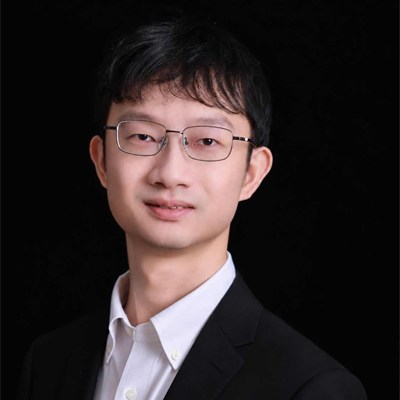
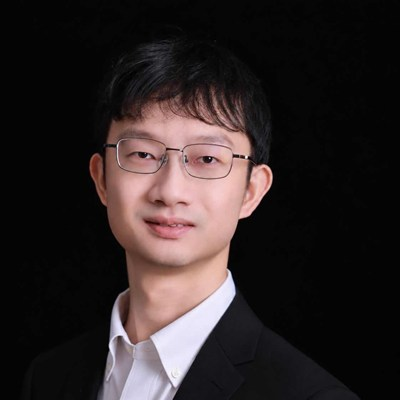
Round the HIT Shenzhen mark and recenter Zhuosheng's portrait

Changed region(s): [[0.21, 0.06, 0.9, 1.0], [0.48, 0.12, 0.51, 0.15], [0.27, 0.15, 0.3, 0.18]]

diff --git a/index.html b/index.html
@@ -103,7 +103,7 @@
         </p>
 
         <div class="hero-logos reveal" aria-label="Affiliated institutions">
-          <img src="assets/logos/hit-shenzhen.png" alt="Harbin Institute of Technology, Shenzhen" />
+          <img class="logo-round" src="assets/logos/hit-shenzhen.png" alt="Harbin Institute of Technology, Shenzhen" />
           <img src="assets/logos/oxford.png" alt="University of Oxford" />
           <img src="assets/logos/sjtu.png" alt="Shanghai Jiao Tong University" />
           <img src="assets/logos/pku.png" alt="Peking University" />

diff --git a/style.css b/style.css
@@ -379,6 +379,10 @@ h3 {
   object-fit: contain;
 }
 
+.hero-logos img.logo-round {
+  border-radius: 50%;
+}
+
 [data-theme="dark"] .hero-logos img {
   height: 68px;
   padding: 8px;
